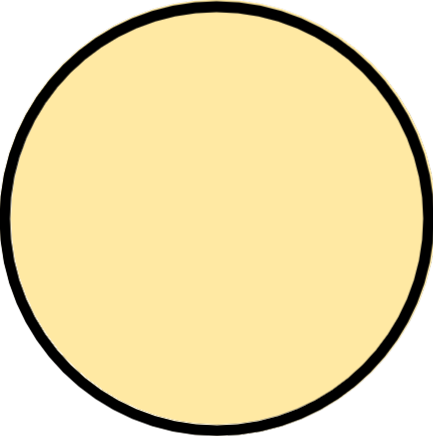
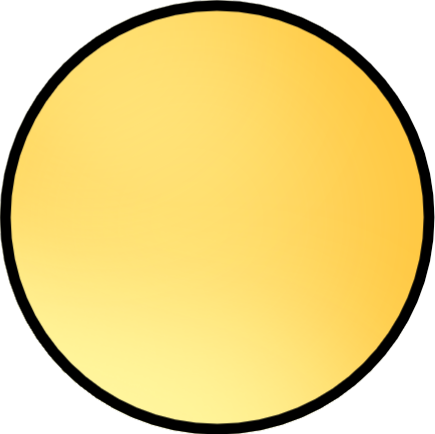
New Field image

diff --git a/src/opponent_card.py b/src/opponent_card.py
@@ -29,7 +29,7 @@ class OpponentCard:
             self.drawMonster(screen, positionX[pos_X], draw_Y)
         elif pos_Y==3: #posY indica que se dibujara en la mano
             draw_Y= positionY[pos_Y]-20 if self.is_Selected else positionY[pos_Y] #Ubicacion si es seleccionada o no
-            screen.blit(red_Card_Image, (positionX[pos_X], draw_Y)) #Dibujado en la pantalla
+            screen.blit(dark_card_image, (positionX[pos_X], draw_Y)) #Dibujado en la pantalla
             #self.drawStats(screen, positionX[pos_X], draw_Y) #Llamada al dibujado de estadisticas
             #self.drawMonster(screen, positionX[pos_X], draw_Y)
     def drawMonster(self, screen,pos_X, pos_Y):

diff --git a/src/values.py b/src/values.py
@@ -97,3 +97,7 @@ title_image = pygame.image.load("assets/images/title.png")
 title_image_width = 600
 title_image_height = 100
 title_image = pygame.transform.scale(title_image,(title_image_width,title_image_height))
+
+# Dark Card
+dark_card_image = pygame.image.load("assets/images/darkcard.png")
+dark_card_image = pygame.transform.scale(dark_card_image, (card_Width, card_Height))
